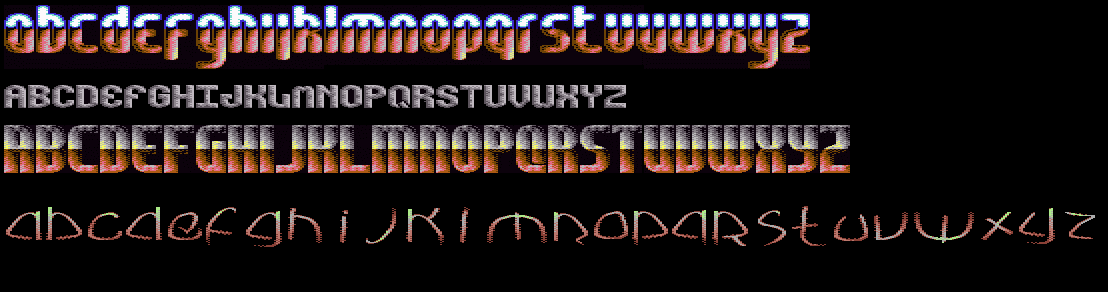
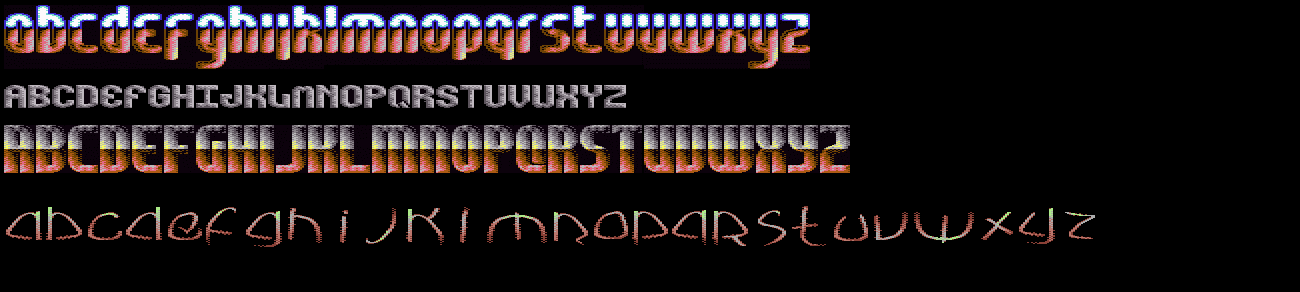
spaces

diff --git a/logogen.js b/logogen.js
@@ -13,28 +13,28 @@
             f:[203,33],g:[246,36],h:[286,36],i:[335,13],j:[365,32],k:[405,39],
             l:[455,15],m:[486,61],n:[550,39],o:[590,39],p:[630,39],q:[670,37],
             r:[708,41],s:[756,30],t:[790,37],u:[833,36],v:[871,37],w:[910,65],
-            x:[983,30],y:[1015,40],z:[1063,34],offset:200
+            x:[983,30],y:[1015,40],z:[1063,34],$:[1100,20],offset:200
           },
           qpd:{
             height:33,a:[3,24],b:[27,24],c:[51,24],d:[75,24],e:[99,24],
             f:[123,24],g:[147,24],h:[171,24],i:[195,24],j:[219,24],k:[243,24],
             l:[267,24],m:[291,24],n:[315,24],o:[339,24],p:[363,24],q:[387,24],
             r:[411,24],s:[435,24],t:[459,24],u:[483,24],v:[507,24],w:[531,24],
-            x:[555,24],y:[581,24],z:[605,24],offset:80
+            x:[555,24],y:[581,24],z:[605,24],$:[640,24],offset:80
           }, 
           rrr1:{
             height:74,a:[3,32],b:[35,32],c:[67,32],d:[99,32],e:[131,32],
             f:[163,32],g:[195,32],h:[227,32],i:[259,16],j:[275,16],k:[291,32],
             l:[323,16],m:[339,48],n:[387,32],o:[419,32],p:[451,32],q:[486,32],
             r:[520,18],s:[539,32],t:[571,32],u:[603,32],v:[635,32],w:[667,48],
-            x:[715,32],y:[747,32],z:[779,32],offset:0
+            x:[715,32],y:[747,32],z:[779,32],$:[900,32],offset:0
           }, 
           rrr2:{
             height:58,a:[3,32],b:[35,32],c:[67,32],d:[99,32],e:[131,32],
             f:[163,32],g:[195,32],h:[227,32],i:[259,16],j:[275,32],k:[307,32],
             l:[339,32],m:[372,48],n:[419,32],o:[451,32],p:[482,32],q:[515,32],
             r:[547,32],s:[579,32],t:[611,32],u:[643,32],v:[676,32],w:[707,48],
-            x:[755,32],y:[789,32],z:[820,32],offset:120
+            x:[755,32],y:[789,32],z:[820,32],$:[870,32],offset:120
           }
         },
         n = document.querySelector('#nav'),
@@ -44,8 +44,8 @@
         input = document.querySelector('#text'),
         old = document.querySelector('.current'),
         set = fonts[old.id],
-        valid = /^[a-z]+$/,
-        rep = /[^a-z]+/g,
+        valid = /^[a-z|\s|\$]+$/,
+        rep = /[^a-z|\s|\$]+/g,
         url = document.location.href.split('?text=')[1];
 
     if(url){
@@ -73,6 +73,7 @@
       s = s.toLowerCase();
       if(!valid.test(s)){ s = s.replace(rep,''); }
       input.value = s;
+      s = s.replace(' ','$');
       if(s){
         draw(s);
       }

diff --git a/index.html b/index.html
@@ -18,7 +18,7 @@
     <li><img src="ollie.png" alt="Ollie/Pride" id="ollie"></li>
   </ul>
   <form>
-    <p><span>2</span> Type your text (lower case a-z only)</p>  
+    <p><span>2</span> Type your text (lower case a-z and space only)</p>  
   <div class="inputs"><input type="text" name="text" id="text"></div>
   <div id="save"></div>
   </form>

diff --git a/logogen.css b/logogen.css
@@ -32,6 +32,7 @@ li,p,input{
   font-size:20px;
 }
 span{
+  font-weight:bold;
   text-align:center;
   background:lime;
   color:#000;
